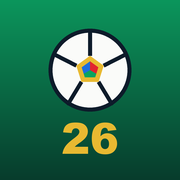
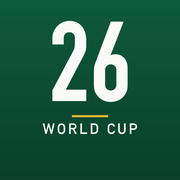
Rethink the mark: a bold "26" monogram (no more ball)
The soccer-ball read as cheap/clip-art across three attempts. New direction
(user-chosen): a restrained typographic "26" monogram — the tournament's own
shorthand — executed with premium restraint.

- App icon (make-icons.py): a bold "26" in DIN Condensed (the classic sport/
  signage numeral) in cream on a deep, near-flat pitch-green ground, a single
  thin gold rule, and a small letter-spaced "WORLD CUP" kicker. No object, no
  gradient-cheese. Supersampled, inside the maskable safe circle. Crisp from a
  32px favicon to 512px.
- New 32px favicon (icon-32.png) — just the "26", legible at tab size.
- Header: a deep-green "26" badge (Archivo, condensed) replacing the ball,
  matching the icon. Verified light + dark + 375px.
- Removed assets/ball.svg.

Build 116.

diff --git a/styles.css b/styles.css
@@ -98,11 +98,15 @@ b{font-weight:600}
   border-bottom:1px solid var(--line);
 }
 .wordmark{display:flex;align-items:center;gap:9px;text-decoration:none;color:var(--ink)}
-.wm-logo{
-  width:25px;height:25px;display:block;
-  animation:ballIn .8s cubic-bezier(.34,1.56,.64,1) both;
+/* "26" monogram tile — matches the app icon (deep pitch-green, cream numerals, condensed) */
+.wm-mark{
+  flex-shrink:0;display:grid;place-items:center;width:29px;height:29px;border-radius:8px;
+  background:linear-gradient(180deg,#0F5A3C,#0A3E29);color:#FAFBF9;
+  font-family:var(--disp);font-weight:800;font-stretch:82%;font-size:15px;letter-spacing:.01em;line-height:1;
+  box-shadow:0 1px 2px rgba(13,27,42,.22),inset 0 0 0 1px rgba(255,255,255,.07);
+  animation:markIn .55s cubic-bezier(.34,1.4,.64,1) both;
 }
-@keyframes ballIn{from{transform:translateY(-26px) rotate(-20deg);opacity:0}}
+@keyframes markIn{from{transform:scale(.6) rotate(-6deg);opacity:0}}
 /* Wordmark hierarchy: a small, spaced supporting "FIFA", the bold "World Cup" hero, and "26" as the lone accent. */
 .wm-text{font-family:var(--disp);font-weight:800;font-stretch:104%;font-size:18px;letter-spacing:0;line-height:1;white-space:nowrap;color:var(--ink)}
 .wm-text b{color:var(--acc1);font-weight:800;transition:color .5s}
@@ -1085,7 +1089,7 @@ tr.is-fav td{background:color-mix(in srgb,var(--acc1) 6%,transparent)}
   .topbar-right{gap:6px}
   .chip{padding:6px 9px;font-size:12px;gap:5px}
   .wm-text{font-size:15px}
-  .wm-logo{width:21px;height:21px}
+  .wm-mark{width:25px;height:25px;font-size:13px;border-radius:7px}
   .wordmark{gap:7px}
   #teamChipName{max-width:92px;overflow:hidden;text-overflow:ellipsis;white-space:nowrap}
   .topbar-right{gap:6px;flex:0 0 auto}

diff --git a/index.html b/index.html
@@ -33,8 +33,8 @@
 <meta name="apple-mobile-web-app-title" content="World Cup 26">
 <meta name="application-name" content="World Cup 26">
 <link rel="stylesheet" href="assets/fonts.css?v=112">
-<link rel="stylesheet" href="styles.css?v=114">
-<link rel="icon" href="assets/ball.svg">
+<link rel="stylesheet" href="styles.css?v=116">
+<link rel="icon" href="assets/icon-32.png" sizes="32x32">
 </head>
 <body>
 
@@ -44,7 +44,7 @@
 
 <header class="topbar">
   <a class="wordmark" href="#matches" data-nav="matches" aria-label="FIFA World Cup 2026">
-    <img class="wm-logo" src="assets/ball.svg" width="26" height="26" alt="" decoding="async">
+    <span class="wm-mark" aria-hidden="true">26</span>
     <span class="wm-text"><span class="wm-fifa">FIFA</span> World&nbsp;Cup&nbsp;<b>26</b></span>
   </a>
   <div class="topbar-right">
@@ -216,6 +216,6 @@
 <canvas id="confetti" aria-hidden="true"></canvas>
 <audio id="bgm" loop preload="none" src="assets/anthem.mp3"></audio>
 
-<script src="app.js?v=115"></script>
+<script src="app.js?v=116"></script>
 </body>
 </html>

diff --git a/sw.js b/sw.js
@@ -7,7 +7,7 @@
  * Cache keys strip ?t= / ?v= so the every-60s polled files and versioned assets don't pile up.
  * Bump CACHE per deploy; activate() purges old caches and claims clients.
  */
-const CACHE = "wc26-115";
+const CACHE = "wc26-116";
 const keyFor = req => new Request(new URL(req.url).origin + new URL(req.url).pathname); // drop the query
 
 self.addEventListener("install", () => self.skipWaiting());

diff --git a/app.js b/app.js
@@ -27,7 +27,7 @@ function toggleSave(id) {
 const AUTO_TZ = Intl.DateTimeFormat().resolvedOptions().timeZone || "UTC";
 const tz = () => (S.tz === "auto" ? AUTO_TZ : S.tz);
 const GROUPS = "ABCDEFGHIJKL".split("");
-const BUILD = "115";  // shown in footer; bump with the ?v= asset version
+const BUILD = "116";  // shown in footer; bump with the ?v= asset version
 
 const ZONES = [
   ["auto", "Auto (device)"],

diff --git a/scripts/make-icons.py b/scripts/make-icons.py
@@ -1,55 +1,39 @@
 #!/usr/bin/env python3
-"""Generate PWA / home-screen icons -> assets/icon-{512,192,180}.png.
-An ORIGINAL match-ball mark (not the official Adidas Trionda — our own glyph): the site's white football with
-navy seams, but its central pentagon is a "three nations" heart (red/green/blue converging) framed in trophy
-gold — a nod to the three 2026 host countries. On the pitch-green gradient with a gold "26". Content stays
-inside the maskable safe circle (central ~80%). Rendered 2x and downscaled for smooth, anti-aliased edges."""
+"""Generate PWA / home-screen icons -> assets/icon-{512,192,180}.png + a favicon (icon-32.png).
+A restrained typographic mark: a bold "26" (DIN Condensed — the classic sport/signage numeral) in cream on a
+deep, near-flat pitch-green ground, with a small letter-spaced "WORLD CUP" kicker over a thin gold rule. No
+object, no clip-art. Content stays inside the maskable safe circle. Rendered 2x and downscaled for smooth edges."""
 from PIL import Image, ImageDraw, ImageFont
 
-FBL = "/System/Library/Fonts/Supplemental/Arial Black.ttf"
-WHITE = (250, 251, 249)
-INK = (13, 27, 42)
+DIN = "/System/Library/Fonts/Supplemental/DIN Condensed Bold.ttf"
+DIN_ALT = "/System/Library/Fonts/Supplemental/DIN Alternate Bold.ttf"
+CREAM = (250, 251, 249)
 GOLD = (232, 185, 49)
-RED, GREEN, BLUE = (226, 35, 47), (11, 163, 96), (28, 110, 224)   # the three host nations
+TOP, BOT = (15, 90, 60), (10, 64, 43)     # deep pitch green, barely a gradient (premium, near-flat)
 
-# our football glyph in 0..100 coords: circle r46 @ 50,50; central pentagon; five seams to the ball edge
-PENT = [(50, 34), (65.2, 45.1), (59.4, 62.9), (40.6, 62.9), (34.8, 45.1)]
-SEAMS = [((50, 34), (50, 7)), ((65.2, 45.1), (89, 33)), ((59.4, 62.9), (74, 87)),
-         ((40.6, 62.9), (26, 87)), ((34.8, 45.1), (11, 33))]
+def tracked(d, cx, y, s, font, fill, tracking):
+    """centre-anchored text with letter-spacing"""
+    w = [d.textlength(c, font=font) for c in s]
+    x = cx - (sum(w) + tracking * (len(s) - 1)) / 2
+    for c, cw in zip(s, w):
+        d.text((x, y), c, font=font, fill=fill, anchor="lm")
+        x += cw + tracking
 
-def draw_ball(img, cx, cy, diameter):
-    W = img.size[0]
-    d = ImageDraw.Draw(img)
-    s = diameter / 92.0                       # the ball spans r46 -> 92 units across
-    T = lambda p: (cx + (p[0] - 50) * s, cy + (p[1] - 50) * s)
-    r, lw = 46 * s, max(2, round(4.5 * s))
-    d.ellipse([cx - r, cy - r, cx + r, cy + r], fill=WHITE, outline=INK, width=lw)   # white ball, navy rim
-    for a, b in SEAMS:                        # navy seams (classic football)
-        d.line([T(a), T(b)], fill=INK, width=lw)
-        x, y = T(b); rr = lw / 2; d.ellipse([x - rr, y - rr, x + rr, y + rr], fill=INK)
-    # central pentagon = the "three nations" heart: paint three converging colours, clipped to the pentagon
-    pent = [T(p) for p in PENT]
-    layer, mask = Image.new("RGB", (W, W)), Image.new("L", (W, W), 0)
-    cb = [cx - 22 * s, cy - 22 * s, cx + 22 * s, cy + 22 * s]
-    ld = ImageDraw.Draw(layer)
-    ld.pieslice(cb, -90, 30, fill=RED); ld.pieslice(cb, 30, 150, fill=GREEN); ld.pieslice(cb, 150, 270, fill=BLUE)
-    ImageDraw.Draw(mask).polygon(pent, fill=255)
-    img.paste(layer, (0, 0), mask)
-    d.polygon(pent, outline=GOLD, width=max(2, round(lw * 1.15)))   # trophy-gold frame around the heart
-
-def make(size):
-    S = 1024                                  # supersample, then downscale for smooth edges
+def make(size, favicon=False):
+    S = 1024
     grad = Image.new("RGB", (1, S))
-    top, bot = (12, 150, 92), (7, 60, 44)     # pitch green -> deep navy-green
-    for y in range(S):
-        grad.putpixel((0, y), tuple(int(top[i] + (bot[i] - top[i]) * (y / S)) for i in range(3)))
+    for i in range(S):
+        grad.putpixel((0, i), tuple(int(TOP[j] + (BOT[j] - TOP[j]) * (i / S)) for j in range(3)))
     img = grad.resize((S, S))
-    draw_ball(img, S // 2, int(S * 0.39), int(S * 0.46))
-    ImageDraw.Draw(img).text((S / 2, S * 0.76), "26", font=ImageFont.truetype(FBL, round(122 * S / 512)),
-                             fill=GOLD, anchor="mm")
+    d = ImageDraw.Draw(img)
+    if favicon:
+        d.text((S / 2, S * 0.50), "26", font=ImageFont.truetype(DIN, round(0.92 * S)), fill=CREAM, anchor="mm")
+    else:
+        d.text((S / 2, S * 0.43), "26", font=ImageFont.truetype(DIN, round(0.62 * S)), fill=CREAM, anchor="mm")
+        d.line([(S * 0.40, S * 0.645), (S * 0.60, S * 0.645)], fill=GOLD, width=round(S * 0.012))   # gold rule
+        tracked(d, S / 2, S * 0.715, "WORLD CUP", ImageFont.truetype(DIN_ALT, round(0.082 * S)), CREAM, S * 0.012)
     return img.resize((size, size), Image.LANCZOS)
 
 for s in (512, 192, 180):
-    name = f"assets/icon-{s}.png"
-    make(s).save(name)
-    print("wrote", name)
+    make(s).save(f"assets/icon-{s}.png"); print("wrote", f"assets/icon-{s}.png")
+make(32, favicon=True).save("assets/icon-32.png"); print("wrote assets/icon-32.png (favicon)")
